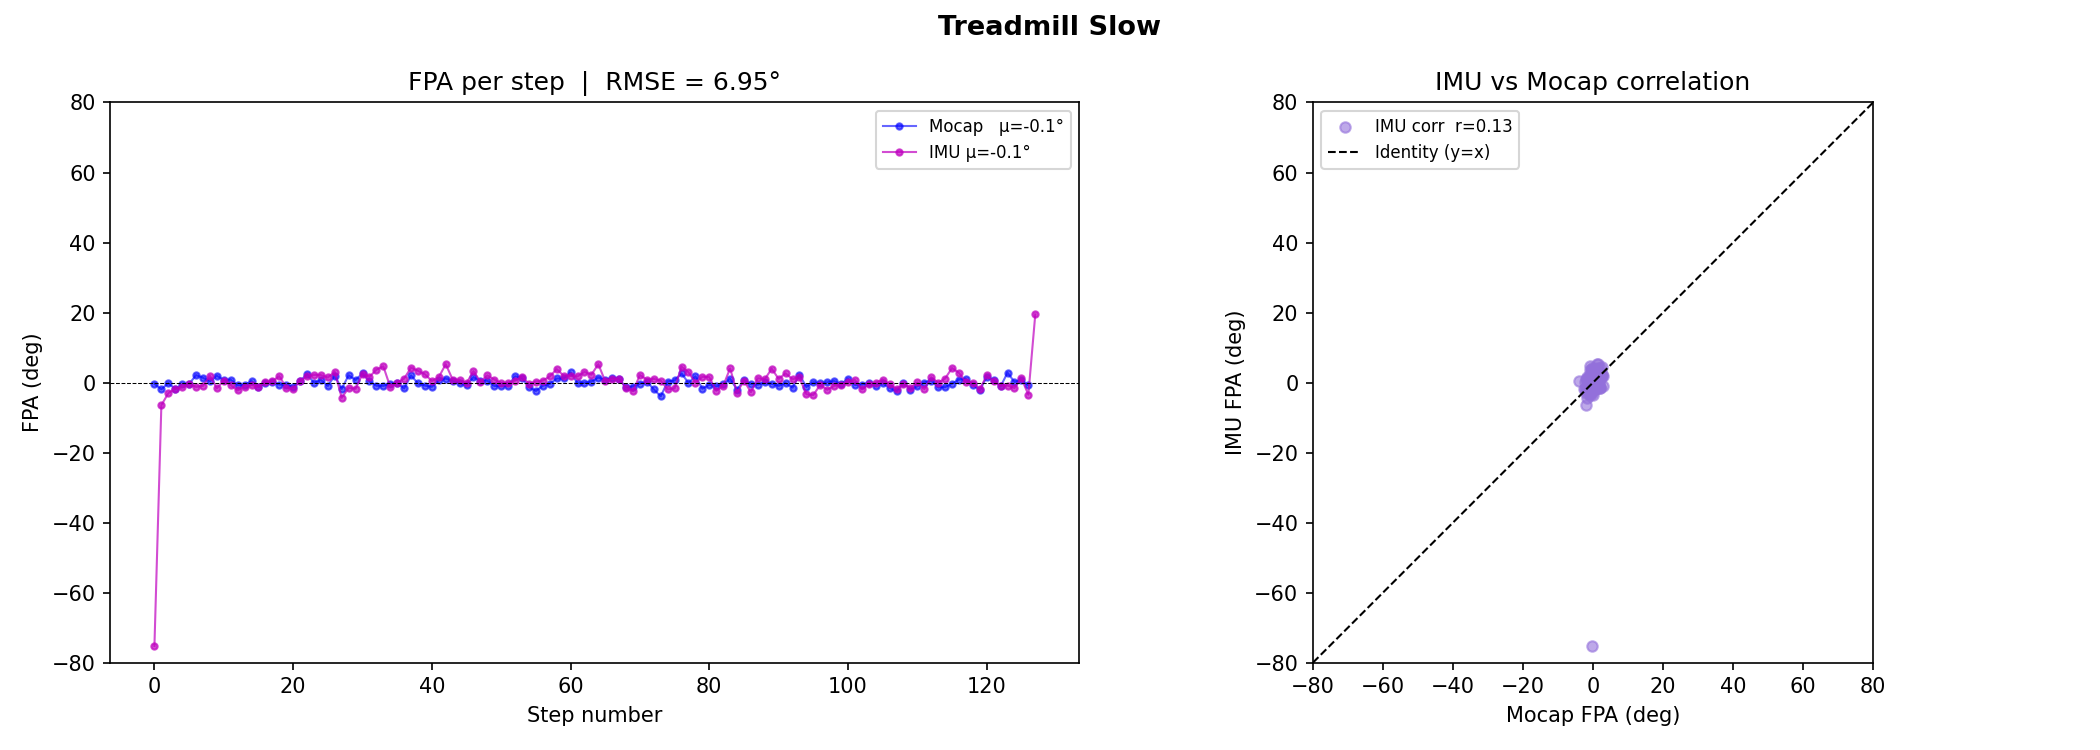
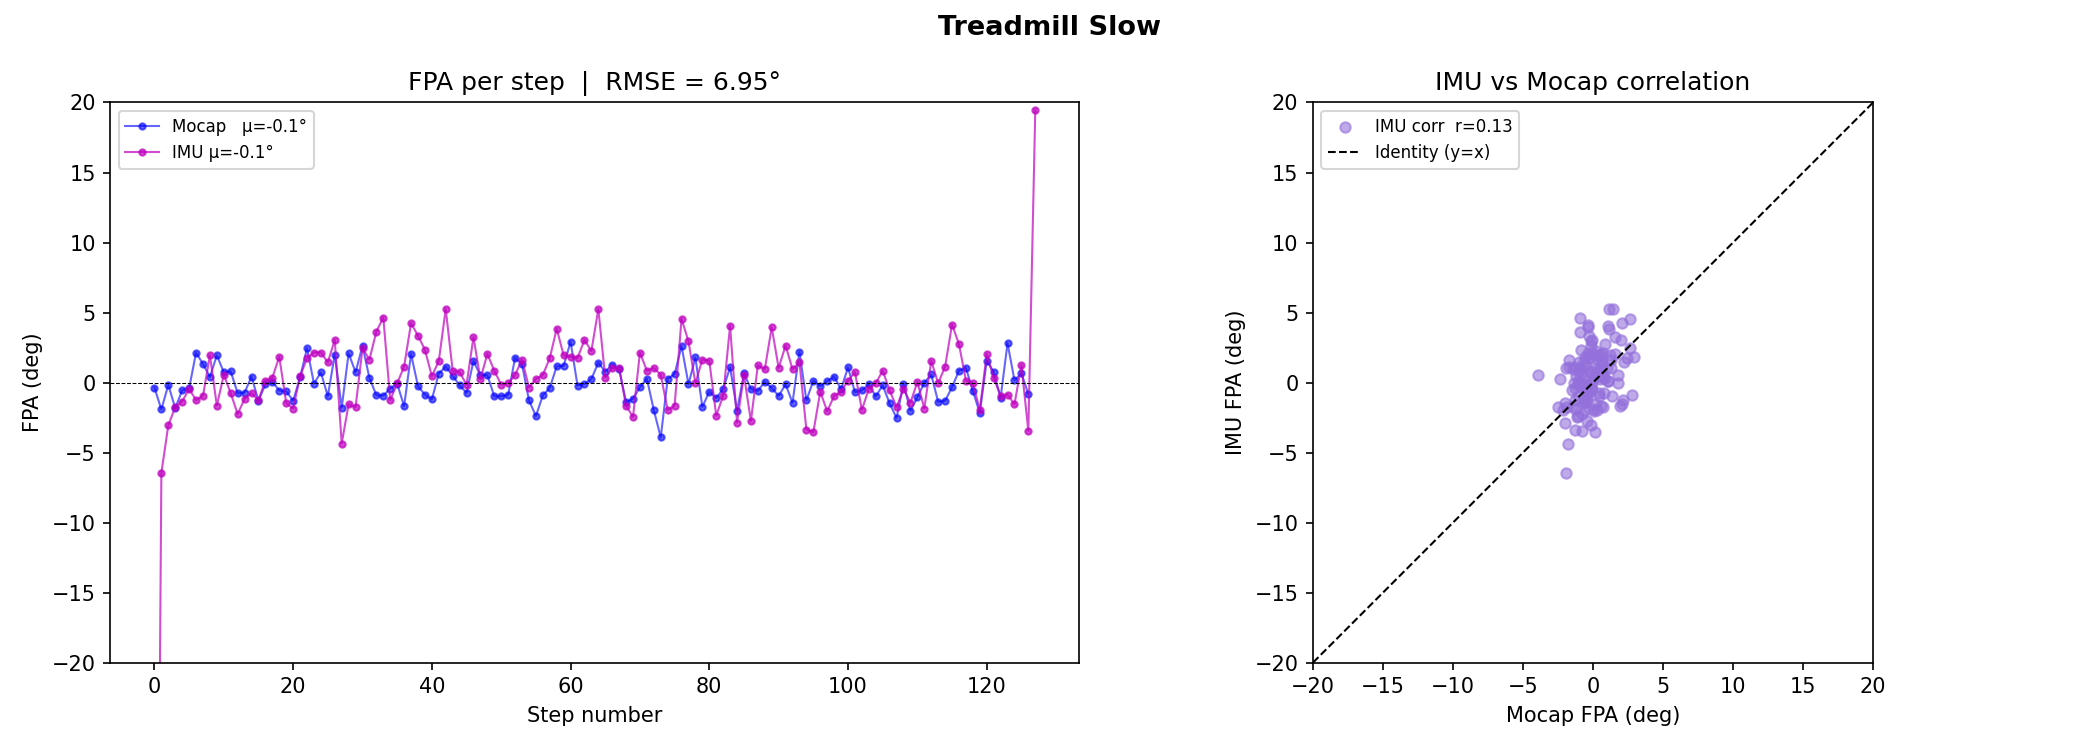
changed axes

diff --git a/Data_Processing/FPA_accuracy.py b/Data_Processing/FPA_accuracy.py
@@ -76,7 +76,7 @@ for label, mocap_file, imu_file in TRIALS:
     imu_corr       = imu_device_fpa - offset
     trial_data.append((label, fpa_mocap_r, imu_device_fpa, imu_corr))
 
-global_ylim = [-80, 80]
+global_ylim = [-20, 20]
 
 # ============================================================
 # PASS 2 — plot each trial with shared y axis
